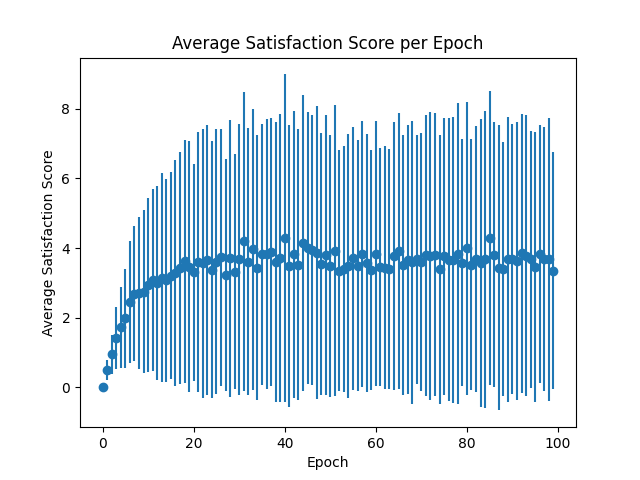
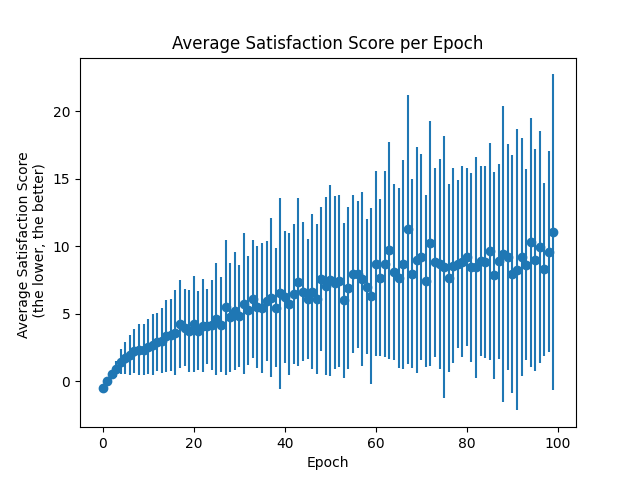
improved satisfaction function, so that now it also depends on distance travelled

diff --git a/src/car.py b/src/car.py
@@ -12,13 +12,16 @@ class Car:
             This is not the final destination, but the next queue the car is heading to.
         balance (float): The balance of the car. This is the amount of credit the car has left.
         rush_factor (float): The rush factor of the car. This represents the driver's urgency (high rush_factor -> high urgency).
-        submitted_bid (float): The bid that the car submitted in the last auction.
         time_at_intersection (int): The number of epochs that the car has spent at the intersection.
+        distance_travelled_in_trip (int): The distance travelled in the current trip. Same as the number of auctions won.
+        submitted_bid (float): The bid that the car submitted in the last auction.
+
     Functions:
         get_short_description: Returns a short description of the car, containing the ID, final destination, balance and rush factor.
         is_at_destination: Checks whether the car is at its final destination. It doesn't matter in which car queue of the intersection it is.
         set_balance: Set the balance of the car to the given balance. E.g. Used for the wage distribution.
         set_car_queue_id: Set the queue ID of the car to a new ID E.g. Used by Grid when the car is moved.
+        increase_distance_travelled_in_trip: Increase the distance spent in the current trip by 1
         calculate_satisfaction_score: Returns the satisfaction score of the trip, which is simply the time spent in the network multiplied by the rush factor.
         reset_final_destination: Set the final destination of the car to a new destination. E.g. Used when the car is (re)spawned.
         update_next_destination_queue: Update the next destination queue of the car. E.g. When the car participates in an auction,
@@ -57,6 +60,8 @@ class Car:
         self.time_at_intersection = 0
         # Time spent in the network for the current trip
         self.time_in_traffic_network = 0
+        # The distance travelled in the current trip. Same as the number of auctions won.
+        self.distance_travelled_in_trip = 0
         # The bid that the car submitted in the last auction.
         self.submitted_bid = 0
 
@@ -99,10 +104,18 @@ class Car:
             self.time_at_intersection = 0
         self.car_queue_id = new_car_queue_id
 
+    def increase_distance_travelled_in_trip(self):
+        """Increase the distance spent in the current trip by 1"""
+        self.distance_travelled_in_trip += 1
+
     def calculate_satisfaction_score(self):
         """This function should only be called at the end fo a trip. Returns the satisfaction score of the trip, 
-        which is simply the time spent in the network multiplied by the rush factor."""
-        return self.time_in_traffic_network * self.rush_factor
+            Function Explanation: The time spent in the network is divided by the distance travelled in the trip,
+            to get the average time spent per intersection. This is then multiplied by the rush factor.
+            The rush factor is subtracted from the result, so that if the car won every auction, the score is 0.
+            The lower the score, the better.
+        """
+        return ((self.time_in_traffic_network * self.rush_factor)/self.distance_travelled_in_trip) - self.rush_factor
 
 ### General state functions ###
     def reset_final_destination(self, grid_size):
@@ -184,6 +197,7 @@ class Car:
         self.submitted_bid = 0
         self.time_at_intersection = 0
         self.time_in_traffic_network = 0
+        self.distance_travelled_in_trip = 0
 
 ### Auction functions ###
     def submit_bid(self):

diff --git a/src/metrics_keeper.py b/src/metrics_keeper.py
@@ -57,10 +57,8 @@ class MetricsKeeper:
             for epoch in result_dict:
                 if epoch in all_results_dict:
                     all_results_dict[epoch] += result_dict[epoch]
-                    # print("added: ", result_dict[epoch])
                 else:
                     all_results_dict[epoch] = result_dict[epoch]
-                    # print("added: ", result_dict[epoch])
 
         # Create a list of all epochs in which cars completed their trip
         epochs = []
@@ -84,7 +82,7 @@ class MetricsKeeper:
         plt.errorbar(epochs, average_satisfaction_scores,
                      yerr=standard_deviations, fmt='o')
         plt.xlabel('Epoch')
-        plt.ylabel('Average Satisfaction Score')
+        plt.ylabel('Average Satisfaction Score \n (the lower, the better)')
         plt.title('Average Satisfaction Score per Epoch')
         plt.savefig(results_folder + '/average_satisfaction_score.png')
         plt.clf()

diff --git a/src/grid.py b/src/grid.py
@@ -202,6 +202,7 @@ class Grid:
             destination_queue = self.get_car_queue(destination_queue_id)
 
             car_to_move = origin_queue.remove_first_car()
+            car_to_move.increase_distance_travelled_in_trip()
             destination_queue.add_car(car_to_move)
             # Let the car know of its new queue
             car_to_move.set_car_queue_id(destination_queue_id)
